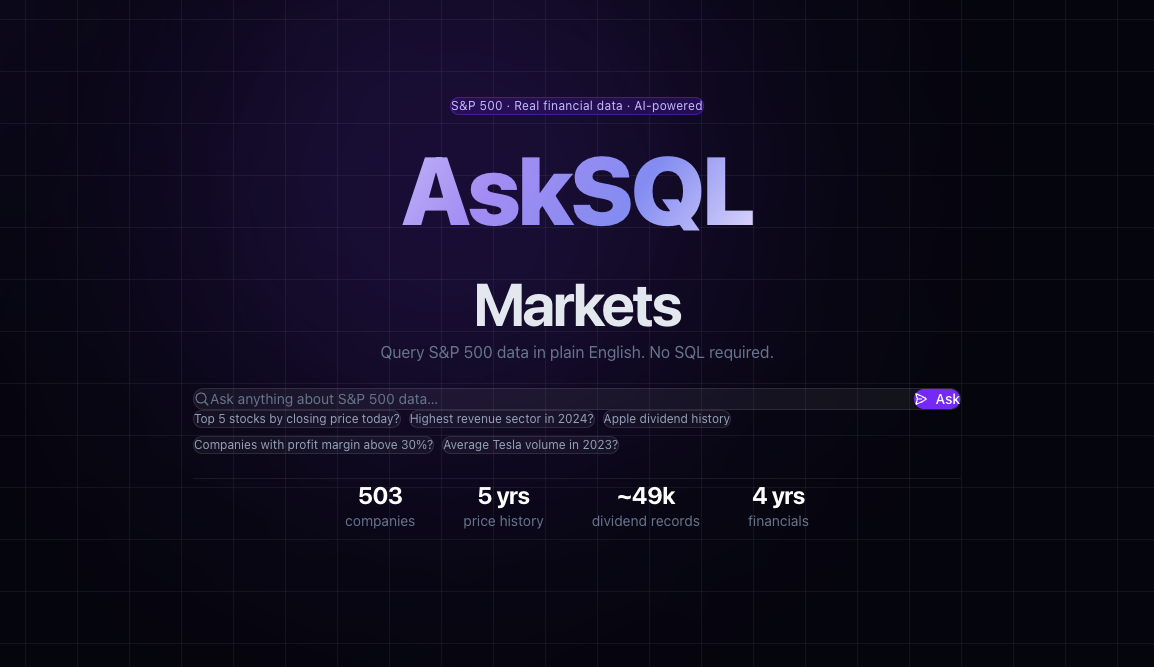
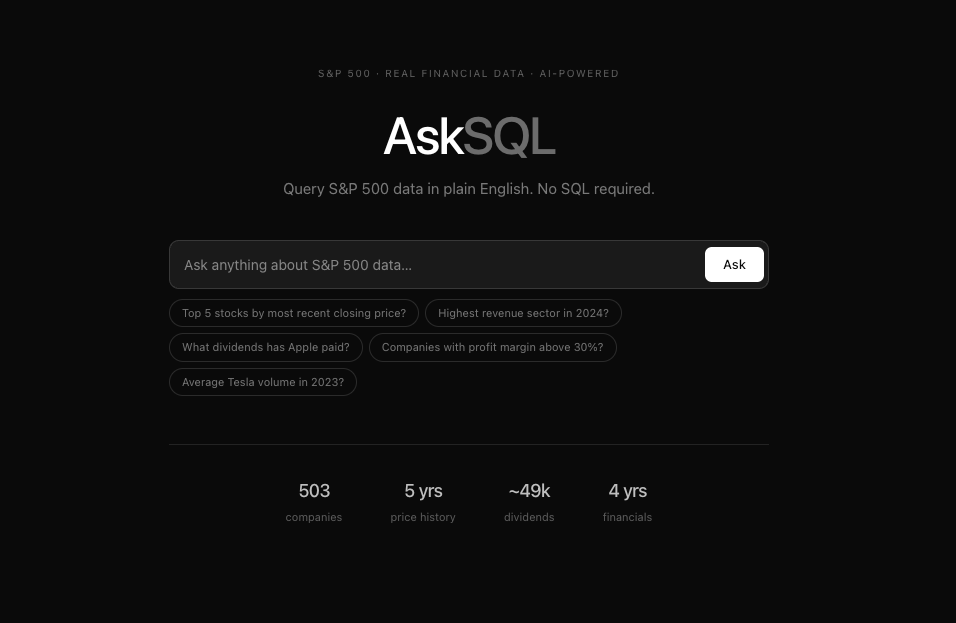
Updated files to remove unused code, and also updating readme/instructions

diff --git a/backend/agent/sql_agent.py b/backend/agent/sql_agent.py
@@ -12,6 +12,7 @@ requires larger models to follow reliably
 """
 
 import re
+import sys
 from datetime import datetime, timezone
 from typing import Any
 
@@ -272,8 +273,8 @@ def _log_query(
                 )
             )
             session.commit()
-    except Exception:
-        pass
+    except Exception as exc:
+        print(f"Warning: failed to log query to history: {exc}", file=sys.stderr)
 
 
 def _format_results_for_prompt(columns: list[str], results: list[list], max_rows: int = 20) -> str:

diff --git a/README.md b/README.md
@@ -77,7 +77,7 @@ asksql_markets/
 │   │   │   ├── SqlDisplay.tsx       #Collapsible SQL block with copy button
 │   │   │   └── ResultsTable.tsx     #Animated results table
 │   │   ├── api.ts                   #Fetch wrapper (uses VITE_API_URL env var)
-│   │   └── index.css                #Glass morphism, blob animations, grid overlay
+│   │   └── index.css                #Minimal monochrome base styles, loading dot animation, table row styles
 │   ├── vercel.json
 │   └── vite.config.ts               #Proxies /ask /health /schema -> :8000 in dev
 └── README.md
@@ -108,7 +108,7 @@ Fixed generate→execute→explain pipeline (not a ReAct loop, and more reliable
 ```
 Question
   -> Pre-check: regex guard rejects greetings/non-data queries immediately
-  -> Chroma RAG (top-3 schema docs + Q->SQL examples)
+  -> Chroma RAG (top-5 schema docs + Q->SQL examples)
   -> LLM: generate SQL
   -> SQLite execute (retry up to 2x on error, feeding error back to LLM)
   -> LLM: explain results in plain English
@@ -207,7 +207,7 @@ The workflow can also be triggered manually from the GitHub Actions UI.
 | Provider | Pass | Usable | Avg latency |
 |----------|------|--------|-------------|
 | Ollama llama3.2 (local) | **84%** | **96%** | 5s |
-| OpenAI gpt-4o-mini (production) | **84%** | **96%** | 3s |
+| OpenAI gpt-4o-mini (production) | **88%** | **96%** | 3s |
 
 ```bash
 cd backend && source venv/bin/activate
